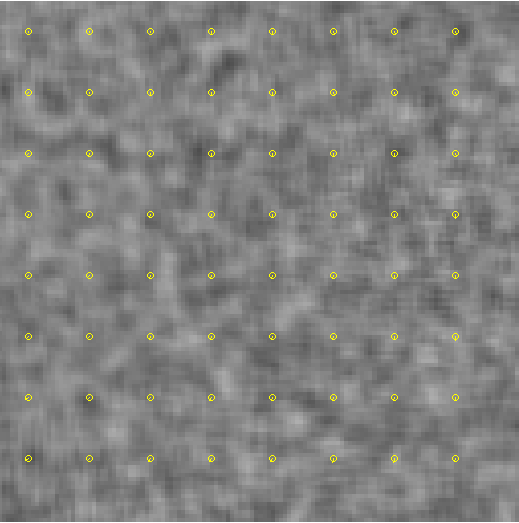
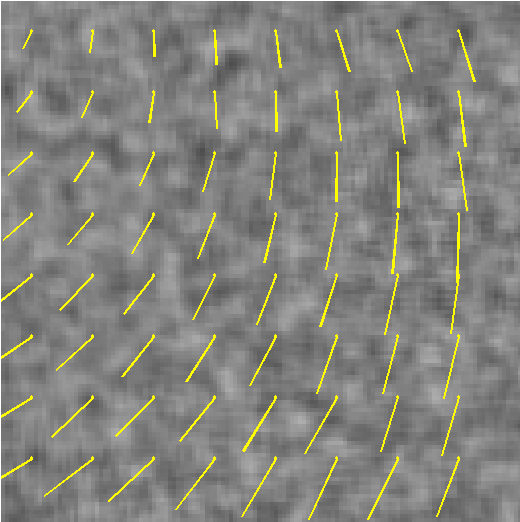
Better Synth Images

diff --git a/Assignment4/LucasKanade.m b/Assignment4/LucasKanade.m
@@ -54,18 +54,17 @@ for x = 1:num_patches_x
         b = -reshape(At{y, x}, patch_size*patch_size, 1, nargin);
         for t = 1:nargin-1
             v = pinv(A(:,:,t))*b(:,:,t);
-            % Instead of using quiver here, Vx, Vy, Px, Py have to be set
-            % and then later used with quiver per image
-            quiver((x-1)*15+8,(y-1)*15+8, v(1),v(2),  ['y', 'o']);
-            Vx(x*y,t) = v(1);
-            Vy(x*y,t) = v(2);
-            Px(x*y,t) = (x-1)*15+8;
-            Py(x*y,t) = (y-1)*15+8;
+            xy = x + (y-1)*num_patches_x;
+            Vx(xy,t) = v(1);
+            Vy(xy,t) = v(2);
+            Px(xy,t) = (x-1)*15+8;
+            Py(xy,t) = (y-1)*15+8;
             
         end
     end
 end
 
+quiver(Px(:,1),Py(:,1), Vx(:,1), Vy(:,1),  ['yd'], 'filled', 'LineWidth', 2, 'MarkerSize', 3);
 
 
 end
